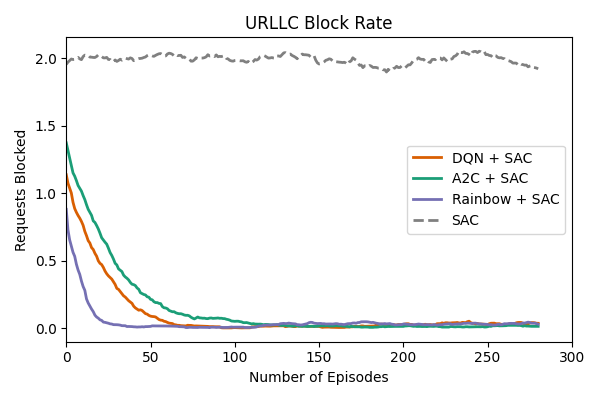
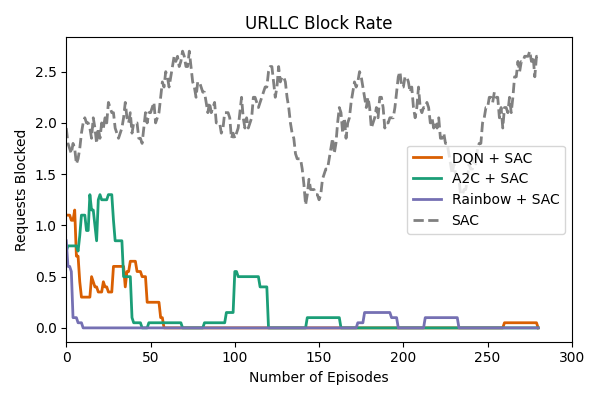
Fork LB

diff --git a/A2C.py b/A2C.py
@@ -235,5 +235,5 @@ def train_a2c(episodes=EPISODES, run_id=1):
 # Run Multiple A2C Simulations
 # ================================
 
-for run_id in range(1, 101):  # Run 5 simulations with different IDs
+for run_id in range(1, 2):  # Run 5 simulations with different IDs
     train_a2c(episodes=EPISODES, run_id=run_id)

diff --git a/DQN.py b/DQN.py
@@ -224,5 +224,5 @@ def train_dqn(episodes=EPISODES, run_id=1):
              urllc_sla=urllc_sla_pres,
              embb_sla=embb_sla_pres)
 
-for run_id in range(1, 101):
+for run_id in range(1, 2):
     train_dqn(episodes=EPISODES, run_id=run_id)

diff --git a/RDQN.py b/RDQN.py
@@ -304,5 +304,5 @@ def train_dqn(episodes=EPISODES, run_id=1):
              urllc_sla=urllc_sla_pres,
              embb_sla=embb_sla_pres)
 
-for run_id in range(1, 101):
+for run_id in range(1, 2):
     train_dqn(episodes=EPISODES, run_id=run_id)

diff --git a/Compare.py b/Compare.py
@@ -8,7 +8,7 @@ import os
 # Configuration
 # ================================
 
-NUM_RUNS = 100  # Number of runs you performed
+NUM_RUNS = 1  # Number of runs you performed
 
 RESULTS_DIR = "/home/w5/pydemo/mecon25/results"
 
